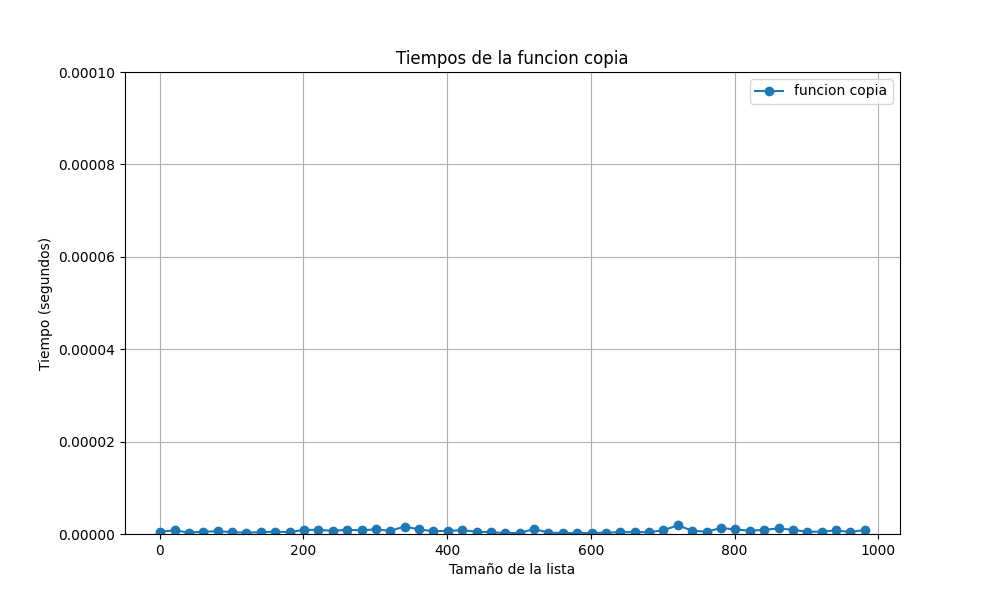
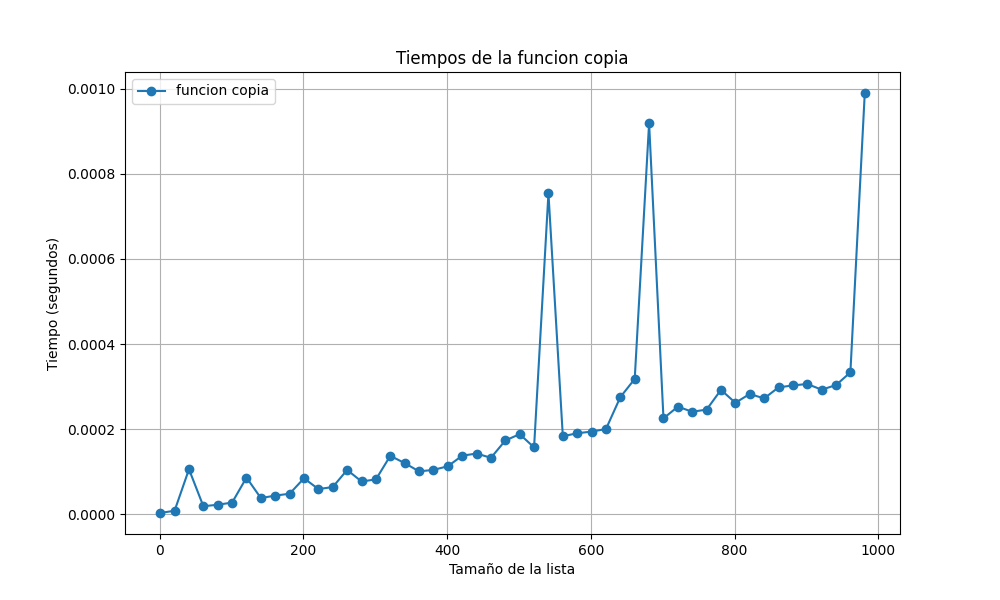
Correccion del modulo tiempos del problema 2

diff --git a/TrabajoPractico_1/Problema 2 - Lista doblemente enlazada/modules/tiempos.py b/TrabajoPractico_1/Problema 2 - Lista doblemente enlazada/modules/tiempos.py
@@ -1,6 +1,6 @@
 from random import randint
 import time
-from ListaDobleEnlazada import ListaDobleEnlazada
+from LDE import ListaDobleEnlazada
 
 def medir_tiempos_len(tamanos):
     
@@ -12,10 +12,10 @@ def medir_tiempos_len(tamanos):
             lista.agregar_al_final(randint(1, 1000))
             
         inicio = time.perf_counter()
-        lista.__len__
+        len(lista)
         fin = time.perf_counter()
         tiempos_len.append(fin - inicio)
-        print(f"Tiempo de funcion len para n={n}: {fin - inicio:.10f} segundos")
+   #     print(f"Tiempo de funcion len para n={n}: {fin - inicio:.10f} segundos")
     
     return tiempos_len  
 
@@ -28,10 +28,10 @@ def medir_tiempos_copia(tamanos):
         for i in range(n):
             lista.agregar_al_final(randint(1, 1000))
         inicio = time.perf_counter()
-        lista.copiar
+        lista.copiar()
         fin = time.perf_counter()
         tiempos_copia.append(fin - inicio)
-        print(f"Tiempo de funcion copia para n={n}: {fin - inicio:.10f} segundos")
+  #      print(f"Tiempo de funcion copia para n={n}: {fin - inicio:.10f} segundos")
     
     return tiempos_copia
 
@@ -44,10 +44,10 @@ def medir_tiempos_invertir(tamanos):
         for i in range(n):
             lista.agregar_al_final(randint(1, 1000))
         inicio = time.perf_counter()
-        lista.invertir
+        lista.invertir()
         fin = time.perf_counter()
         tiempos_invertir.append(fin - inicio)
-        print(f"Tiempo de funcion invertir para n={n}: {fin - inicio:.10f} segundos")
+      #  print(f"Tiempo de funcion invertir para n={n}: {fin - inicio:.10f} segundos")
     
     return tiempos_invertir
         

diff --git a/TrabajoPractico_1/Problema 2 - Lista doblemente enlazada/modules/graficacion.py b/TrabajoPractico_1/Problema 2 - Lista doblemente enlazada/modules/graficacion.py
@@ -42,7 +42,7 @@ def graficar_tiempos_copia():
 
     plt.xlabel('Tamaño de la lista')
     plt.ylabel('Tiempo (segundos)')
-    plt.ylim(0, 0.0001)  # Ajusta el límite superior a 1 segundo
+   # plt.ylim(0, 0.0001)  # Ajusta el límite superior a 1 segundo
     plt.title('Tiempos de la funcion copia')
     plt.legend() # para mostrar el nombre del método de ordenamiento. Es el "label" del metodo plot
     plt.grid() # cuadriculado
@@ -64,7 +64,7 @@ def graficar_tiempos_invertir():
 
     plt.xlabel('Tamaño de la lista')
     plt.ylabel('Tiempo (segundos)')
-    plt.ylim(0, 0.0001)  # Ajusta el límite superior a 1 segundo
+  #  plt.ylim(0, 0.0001)  # Ajusta el límite superior a 1 segundo
     plt.title('Tiempos de la funcion invertir')
     plt.legend() # para mostrar el nombre del método de ordenamiento. Es el "label" del metodo plot
     plt.grid() # cuadriculado
